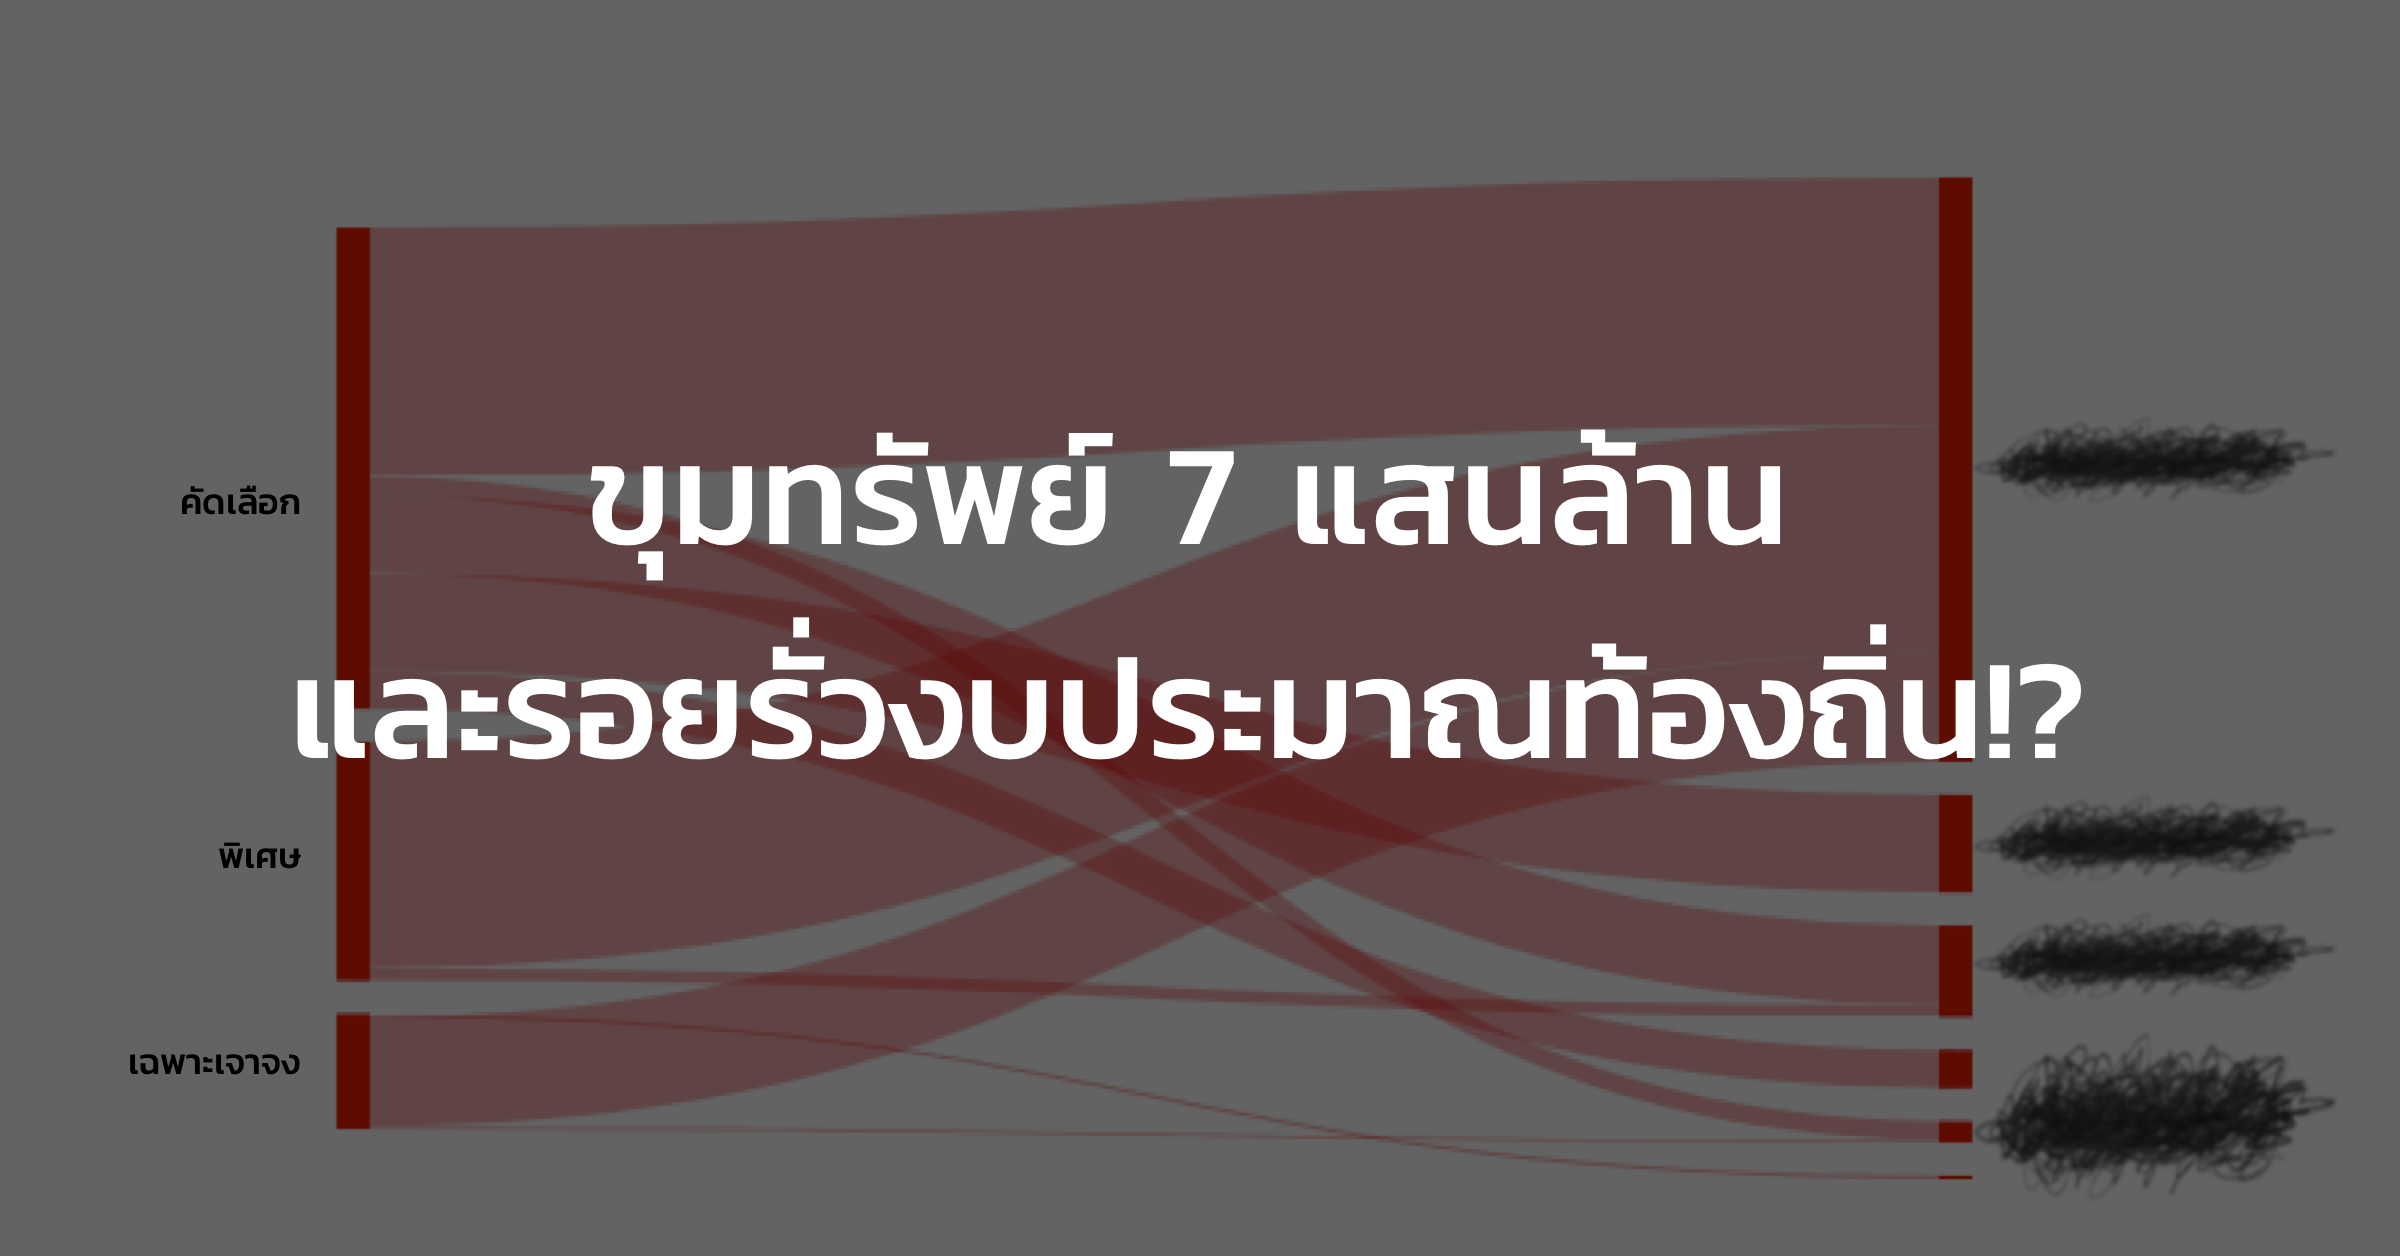
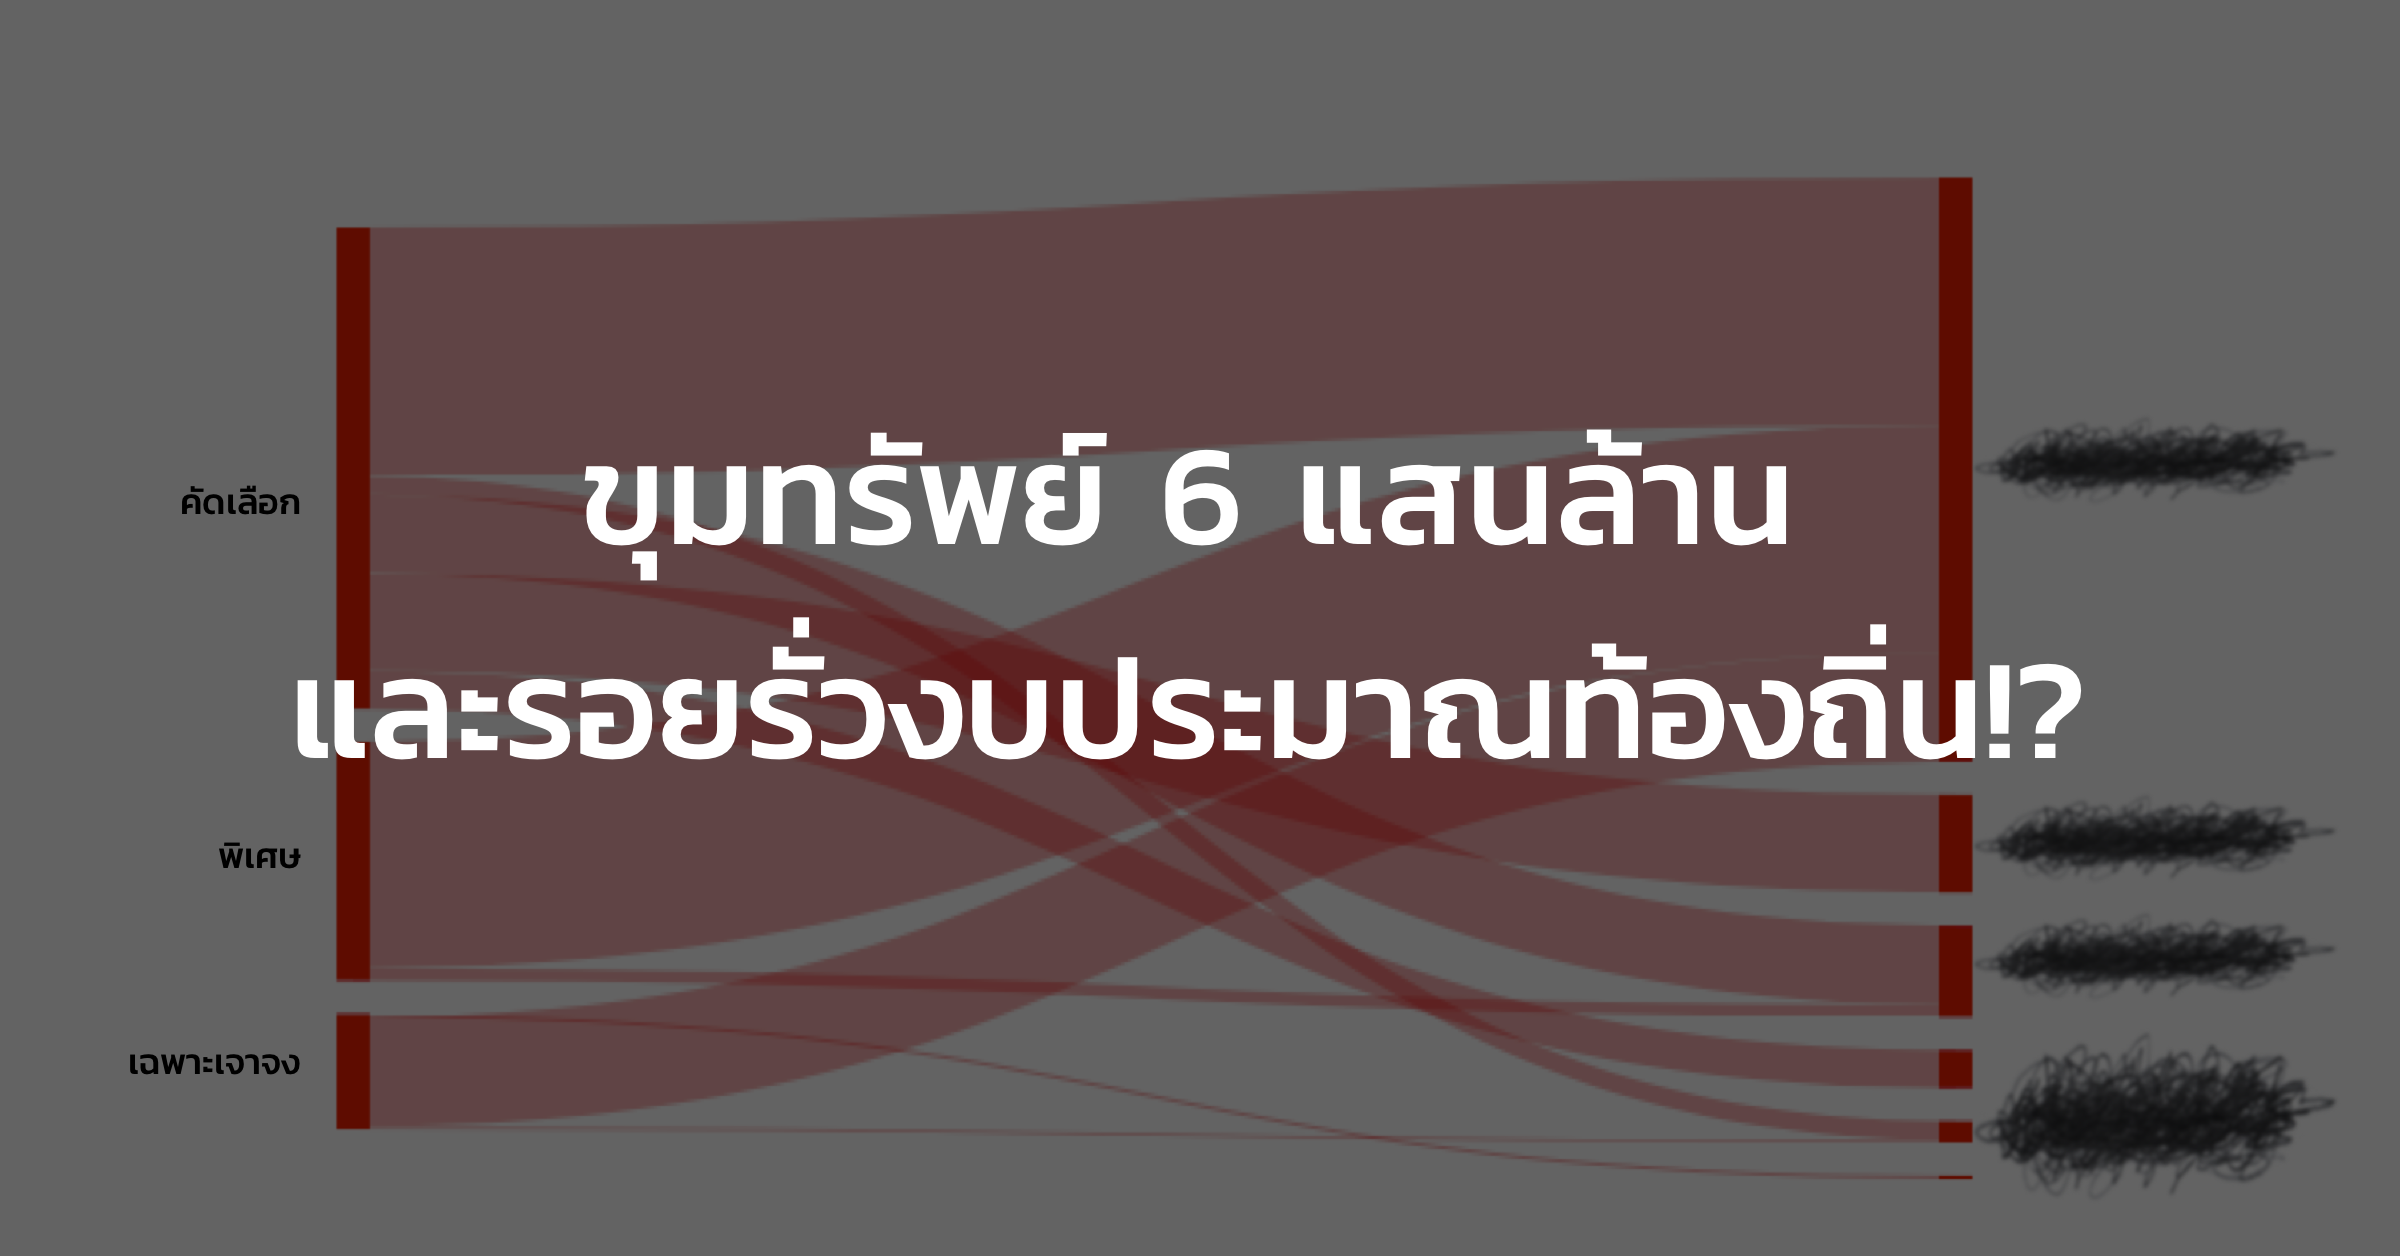
Updates

Changed region(s): [[0.25, 0.3416, 0.75, 0.4658]]

diff --git a/index.html b/index.html
@@ -28,7 +28,7 @@
     ขณะเดียวกันก็ขึ้นอยู่กับศักยภาพ และอิทธิพลของบริษัทที่จะเข้าแข่งขัน เช่น บางท้องที่มีบริษัทรับเหมาเจ้าประจำอยู่ เมื่อเปิดประมูล ก็จะมีส่วนทำให้บริษัทเอกชนอื่นที่เกรงอิทธิพลไม่เข้าร่วมการแข่งขัน ซึ่งท้องถิ่นมักจะมีปัญหาในลักษณะนี้  เพื่อให้เป็นไปตามเงื่อนไขการแข่งขันราคา ก็มักจะกระทำในลักษณะสมยอมกันในการเสนอราคา ที่เรียกว่า “จัดให้มีพระอันดับ” ในการแข่งขัน เพื่อพรางหรือหลอกว่ามีการแข่งขันจริง ทั้งที่ไม่มีการแข่งขันอย่างแท้จริง พบว่าเป็นเรื่องของการทุจริตเชิงแฝงเร้นได้ โดยระเบียบแล้วจึงต้องมีการตรวจสอบว่าผู้เสนอราคาต้องมิใช่เครือข่ายเดียวกัน เช่น ตรวจสอบจากการถือหุ้น หรือ ผู้บริหารของแต่ละบริษัท ซึ่งผู้ตรวจสอบคือเจ้าหน้าที่ท้องถิ่นที่ได้รับมอบหมายให้มีหน้าที่คัดเลือกผู้ขายหรือผู้รับจ้างในโครงการ โดยการกระจุกตัวของผู้ขายหรือผู้รับจ้าง มักตามมาด้วยปัญหาการส่งมอบงานที่ไม่มีคุณภาพ ล่าช้า การขายงาน จนนำไปสู่การทิ้งงาน ซึงมักพบบ่อย⏤อดีตผู้ว่า สตง.ขยายความข้อมูล 
 </div><div class="css-p2x9xb"><div><style data-emotion-css="aq93fo">.css-aq93fo{text-align:center;font-size:11px;}</style><div class="css-aq93fo">เลือกไฮไลท์สีตามสัดส่วนโครงการแบบ <!-- --> <select style="border:0px;background:#eee"><option selected="" value="0">เฉพาะเจาะจง</option><option value="1">ประกวดราคาอิเล็กทรอนิกส์ (e-bidding)</option><option value="2">ประกวดราคาด้วยวิธีการทางอิเล็กทรอนิกส์</option><option value="3">พิเศษ</option><option value="4">คัดเลือก</option><option value="5">สอบราคา</option><option value="6">จ้างที่ปรึกษาโดยวิธีคัดเลือก</option><option value="7">จ้างที่ปรึกษาโดยวิธีประกาศเชิญชวนทั่วไป</option><option value="8">จ้างที่ปรึกษาโดยวิธีเฉพาะเจาะจง</option><option value="9">ตกลงราคา</option><option value="10">ประกวดราคา</option><option value="11">กรณีพิเศษ</option></select></div><div><div class="react-component"></div></div></div></div><div class="css-p2x9xb"> <!-- -->
     ภาพด้านล่างสามารถตรวจสอบบริษัทอื่น ๆ ที่มีรายได้มากกว่า 100 ล้านบาท จากการจัดซื้อจัดจ้างโครงการ อปท. เพิ่มเติม โดยประชาชนควรเข้ามาดูและตรวจสอบข้อมูลเบื้องต้นด้วยตัวเองได้ ด้วยการดูความสัมพันธ์เชิงผู้บริหาร เชิงทุน และลักษณะงาน เพื่อดูการกระจุกของโครงการและงบประมาณ ที่เสี่ยงต่อการล่าช้าและขายงาน จนนำไปสู่การทิ้งงานได้หรือไม่ ?  ซึ่งหากพบข้อมูลที่ผิดปกติหรือส่อไปในทางไม่สุจริตอาจจะส่งให้ ป.ป.ช.,สตง. หรือ ป.ป.ท. เพื่อขยายผลเป็นการป้องปราม หรือปราบปรามการทุจริตต่อไป
-</div><div class="css-p2x9xb"><style data-emotion-css="79elbk">.css-79elbk{position:relative;}</style><div id="company-info" class="css-79elbk"><div class="css-1eytt7z"><style data-emotion-css="1okl884">.css-1okl884{width:100%;margin-bottom:10px;text-align:center;}@media (min-width:960px){.css-1okl884{text-align:right;}}</style><div class="css-1okl884"><style data-emotion-css="q2ntoz">.css-q2ntoz{padding:5px;border:1px solid;cursor:pointer;display:inline-block;}</style><div class="css-q2ntoz">สุ่มเลือกบริษัทอื่น</div></div><div>รายละเอียดการรับโครงการของ <!-- --> <style data-emotion-css="1jo7735">.css-1jo7735{-webkit-text-decoration:underline;text-decoration:underline;display:block;}@media (min-width:960px){.css-1jo7735{display:inline;}}</style><span class="css-1jo7735"><a style="color:black;text-decoration:none" href="https://datawarehouse.dbd.go.th/company/profile/3/0933538000044" target="_blank" rel="noopener noreferrer">ทุ่งยาวการค้า</a></span></div></div><style data-emotion-css="nv4sc0">.css-nv4sc0{margin-left:-0px;}@media (min-width:960px){.css-nv4sc0{margin-left:0;}}</style><div class="css-nv4sc0"><div><div class="react-component"></div></div></div><style data-emotion-css="xi606m">.css-xi606m{text-align:center;}</style><div class="css-xi606m"><div style="text-decoration:underline;text-align:center"><a style="color:black;text-decoration:none" href="https://govspending.data.go.th/budget?winner=0933538000044" target="_blank" rel="noopener noreferrer">ดูโครงการทั้งหมดจาก ภาษีไปไหน?</a></div></div></div></div><div class="css-p2x9xb">
+</div><div class="css-p2x9xb"><style data-emotion-css="79elbk">.css-79elbk{position:relative;}</style><div id="company-info" class="css-79elbk"><div class="css-1eytt7z"><style data-emotion-css="1okl884">.css-1okl884{width:100%;margin-bottom:10px;text-align:center;}@media (min-width:960px){.css-1okl884{text-align:right;}}</style><div class="css-1okl884"><style data-emotion-css="q2ntoz">.css-q2ntoz{padding:5px;border:1px solid;cursor:pointer;display:inline-block;}</style><div class="css-q2ntoz">สุ่มเลือกบริษัทอื่น</div></div><div>รายละเอียดการรับโครงการของ <!-- --> <style data-emotion-css="1jo7735">.css-1jo7735{-webkit-text-decoration:underline;text-decoration:underline;display:block;}@media (min-width:960px){.css-1jo7735{display:inline;}}</style><span class="css-1jo7735"><a style="color:black;text-decoration:none" href="https://datawarehouse.dbd.go.th/company/profile/3/0203537002805" target="_blank" rel="noopener noreferrer">หจก.พัทยาชัยทิพย์ ก่อสร้าง</a></span></div></div><style data-emotion-css="nv4sc0">.css-nv4sc0{margin-left:-0px;}@media (min-width:960px){.css-nv4sc0{margin-left:0;}}</style><div class="css-nv4sc0"><div><div class="react-component"></div></div></div><style data-emotion-css="xi606m">.css-xi606m{text-align:center;}</style><div class="css-xi606m"><div style="text-decoration:underline;text-align:center"><a style="color:black;text-decoration:none" href="https://govspending.data.go.th/budget?winner=0203537002805" target="_blank" rel="noopener noreferrer">ดูโครงการทั้งหมดจาก ภาษีไปไหน?</a></div></div></div></div><div class="css-p2x9xb">
     อย่างไรก็ตาม จากการกระบวนการทำงาน เรื่อง “ขุมทรัพย์ 6 แสนล้าน และรอยรั่วงบประมาณท้องถิ่น!?” ทำให้เห็นถึงปัญหาการใช้จ่ายงบประมาณของ อปท. 
     โดยบทความนี้แสดงให้เห็นว่า โครงการส่วนใหญ่มีรูปแบบการจัดซื้อจัดจ้างแบบเฉพาะเจาะจง ซึ่งอาจจะมีการเอื้อผลประโยชน์แอบแผงอยู่ แต่ทางทีมงานไม่สามารถวิเคราะห์เจาะลึกและฟันธงเรื่องการทุจริตได้ เนื่องจากข้อมูลเปิดภาครัฐที่เกี่ยวกับรายรับ - รายจ่ายของ อปท. ส่วนใหญ่ขาดรายละเอียดที่สำคัญบางประการ รวมถึงมีความยุ่งยากซับซ้อน และการจัดแสดงผลข้อมูลตัวเลขทำอย่างไม่เป็นระบบ ไม่ครบถ้วน ไม่ทันสมัย และไม่เอื้อต่อการนำมาใช้วิเคราะห์ประมวลผลด้วยโปรแกรมคอมพิวเตอร์ ซึ่งเป็นเรื่องสำคัญที่ต้องได้รับการแก้ไขปรับปรุงอย่างเร่งด่วน เพื่อให้ประชาชนสามารถเข้าไปมีส่วนร่วมในการนำข้อมูลไปใช้ เพื่อประโยชน์สาธารณะอย่างแท้จริง
 </div><div class="css-p2x9xb"><br/><b>เนื้อหาเพิ่มเติม</b><ol><li><a style="color:black" href="https://github.com/codeforthailand/2019-local-administrative-budget-and-projects#ชุดข้อมูล" target="_blank" rel="noopener noreferrer">ชุดข้อมูลโครงการจัดซื้อจ้างของอปท. ที่ใช้ในการวิเคราะห์</a></li><li><style data-emotion-css="1xu3tth">.css-1xu3tth{color:black;}</style><a class="css-1xu3tth" href="/2019-local-administrative-budget-and-projects/reflection-on-our-open-data">อุปสรรคในการทำงานและการเข้าถึง “ข้อมูลเปิดภาครัฐ” (Open Government Data)</a></li><li><a class="css-1xu3tth" href="/2019-local-administrative-budget-and-projects/interview">บทสัมภาษณ์ พิศิษฐ์ ลีลาวชิโรภาส เกี่ยวกับรูปแบบและการตรวจสอบการจัดซื้อจัดจ้างภาครัฐ</a></li></ol><div></div><div style="padding-top:20px"><b>คณะผู้จัดทำ</b><div>เรียบเรียงเนื้อหา: <a style="color:black" href="http://www.datatalksonline.com" target="_blank" rel="noopener noreferrer">ชนิกานต์ กาญจนสาลี</a>, <a style="color:black" href="http://kittinan.sakhononline.com" target="_blank" rel="noopener noreferrer">กิตตินันท์ นาคทอง</a>, <a style="color:black" href="#" target="_blank" rel="noopener noreferrer">กนิษฐา ไชยแสง</a><br/>ออกแบบ: <a style="color:black" href="#" target="_blank" rel="noopener noreferrer">อักษราภัค พุทธวงษ์</a><br/>พัฒนาเว็บไซต์: <a style="color:black" href="#" target="_blank" rel="noopener noreferrer">ไวยณ์วุฒิ เอื้อจงประสิทธิ์</a>, <a style="color:black" href="http://pat.chormai.org" target="_blank" rel="noopener noreferrer">ภัทรวัต ช่อไม้</a><br/><br/>ที่ปรึกษาข้อมูล: พิศิษฐ์ ลีลาวชิโรภาส (อดีตผู้ว่าฯ สตง.)<br/><br/>โครงการนี้เป็นส่วนหนึ่งของ Data Journalism Camp Thailand 2019<br/>จัดโดย <a style="color:black" href="http://www.tja.or.th" target="_blank" rel="noopener noreferrer">สมาคมนักข่าวนักหนังสือพิมพ์แห่งประเทศไทย</a> ✕ <!-- --> <a style="color:black" href="" target="_blank" rel="noopener noreferrer">ชมรมเครือข่ายนักสื่อสารข้อมูลเชิงลึกแห่งประเทศไทย</a><br/><br/>ขอบคุณข้อมูลจาก <!-- --> <a style="color:black" href="http://govspending.data.go.th" target="_blank" rel="noopener noreferrer">เว็บภาษีไปไหน?</a>, <a style="color:black" href="http://www.dla.go.th/work/abt/index.jsp" target="_blank" rel="noopener noreferrer">กรมส่งเสริมการปกครองท้องถิ่น</a>, <a style="color:black" href="https://www.audit.go.th" target="_blank" rel="noopener noreferrer">สำนักงานการตรวจเงินแผ่นดิน</a><br/>และความช่วยเหลือจาก <!-- --> <a style="color:black" href="http://boonmeelab.com" target="_blank" rel="noopener noreferrer">บุญมีแล็บ</a>, <a style="color:black" href="https://www.facebook.com/punchupworld/" target="_blank" rel="noopener noreferrer">พั้นช์ อัพ</a></div></div></div></div></div></div><script>
